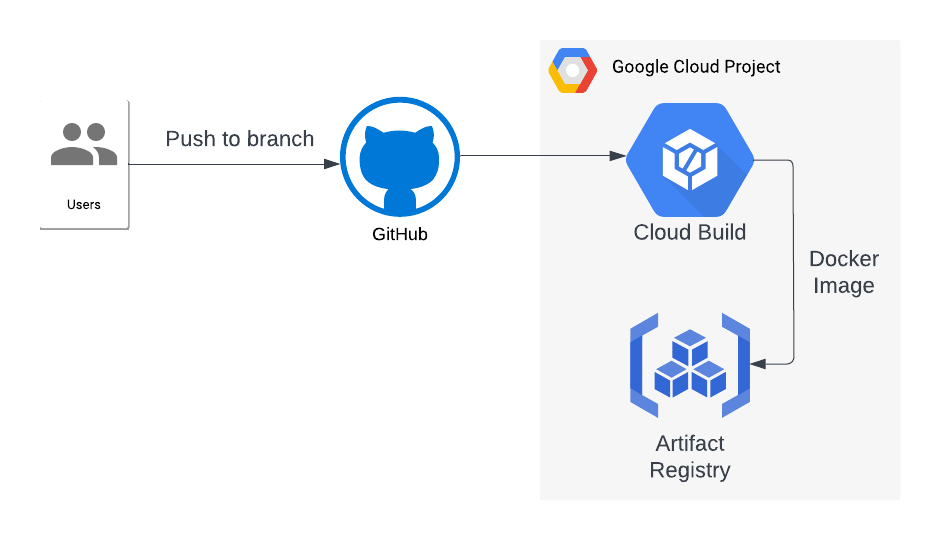
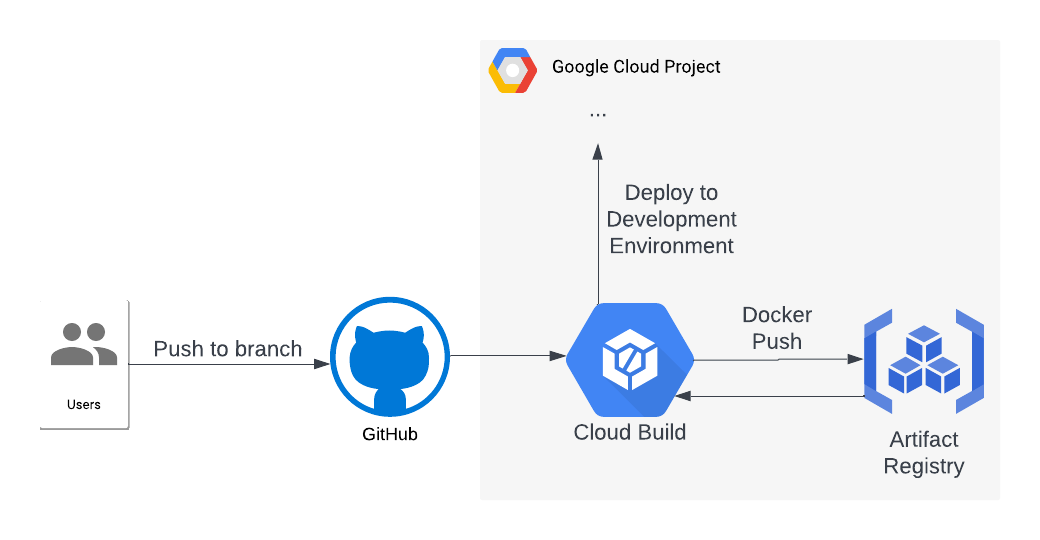
Set only Build and Tag pipelines for now (#29)

diff --git a/README.md b/README.md
@@ -60,14 +60,15 @@ It depends on [Firestore](https://cloud.google.com/firestore), a Serverless docu
 
 ### Build
 
+1. Set the `set_build_pipeline` variable to `true` if you wish to provision a Build pipeline in the project.
 1. A [Cloud Build](https://cloud.google.com/build) shoud run to build and push a container image to [Artifact Registry](https://cloud.google.com/artifact-registry) everytime you push a commit to the branch corresponding to the value you set for the `github_repo_branch` variable.
-1. If you set the value of the `deploy_on_push_to_branch` variable to `true` it will also deploy the system. This is useful for development environments (for example, deploying on every push to the `main` branch).
+1. It will also deploy the system into a "Development" environment.
+1. After the system is deployed, [set up HTTPS for the created Load Balancers](https://cloud.google.com/iap/docs/load-balancer-howto#update_dns).
 
 ![Build Pipeline](./google-cloud-build-pipeline.png)
 
-### Deploy
+### Tag
 
 1. [Create a Release](https://docs.github.com/en/repositories/releasing-projects-on-github/managing-releases-in-a-repository#creating-a-release) on Github and tag the commit with a value matching the regex you used as the value of the `github_repo_commit_tag` variable.
-1. After the system is deployed, [set up HTTPS for the created Load Balancers](https://cloud.google.com/iap/docs/load-balancer-howto#update_dns).
 
-![Deploy Pipeline](./google-cloud-deploy-pipeline.png)
+![Tag Pipeline](./google-cloud-tag-pipeline.png)
